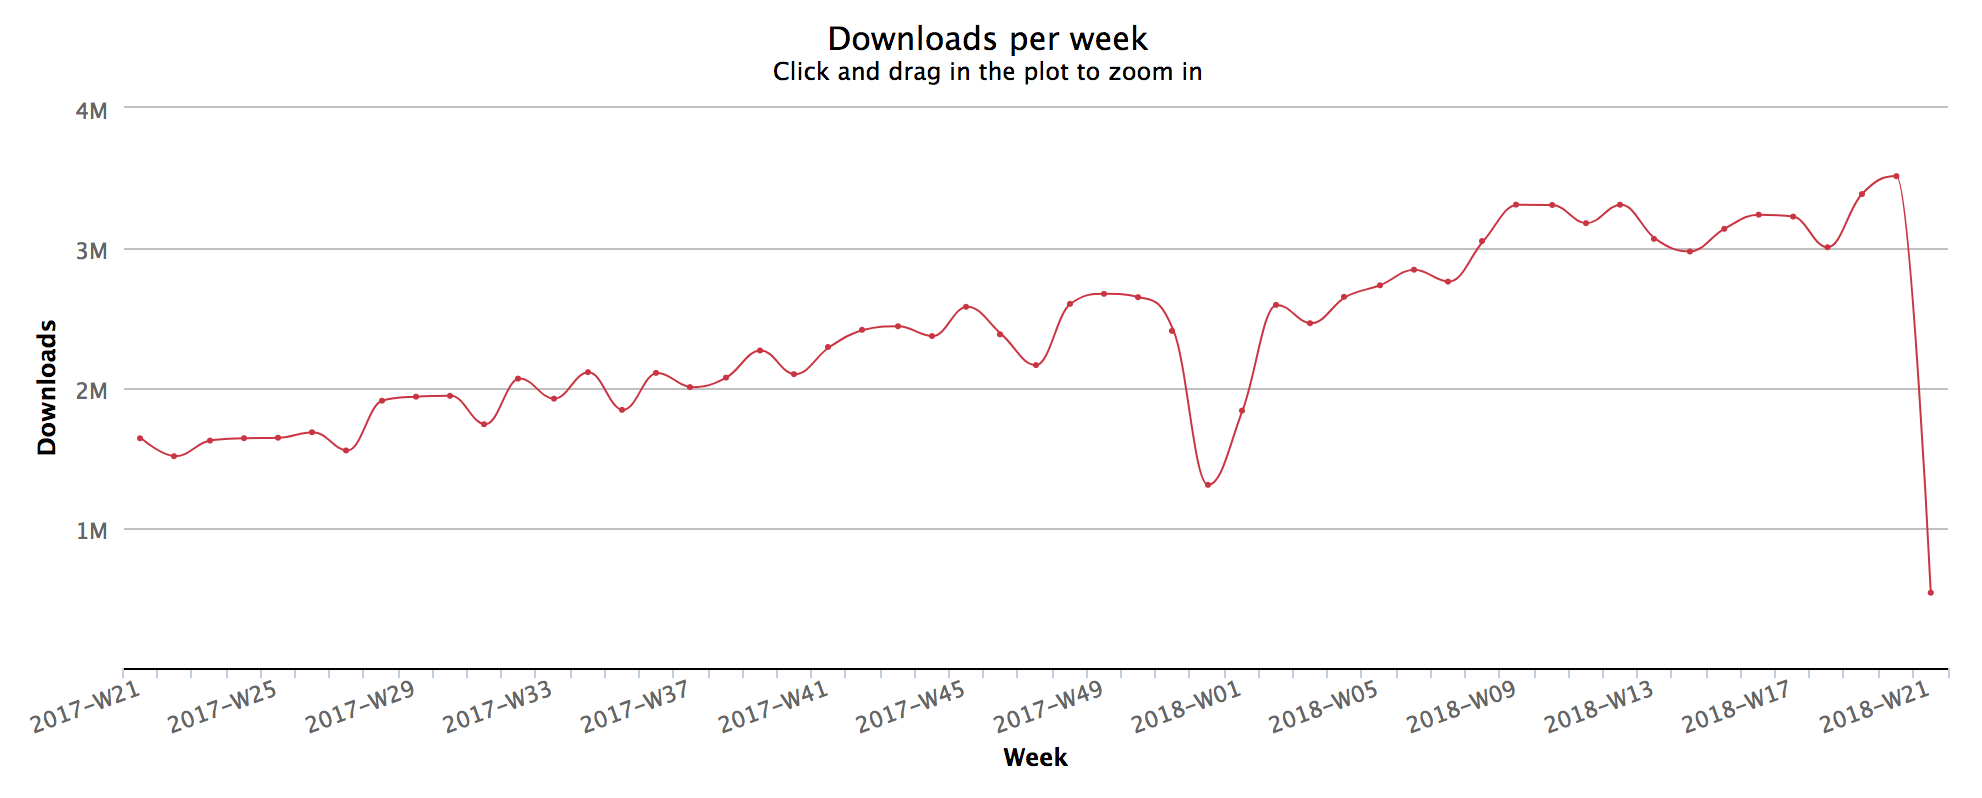
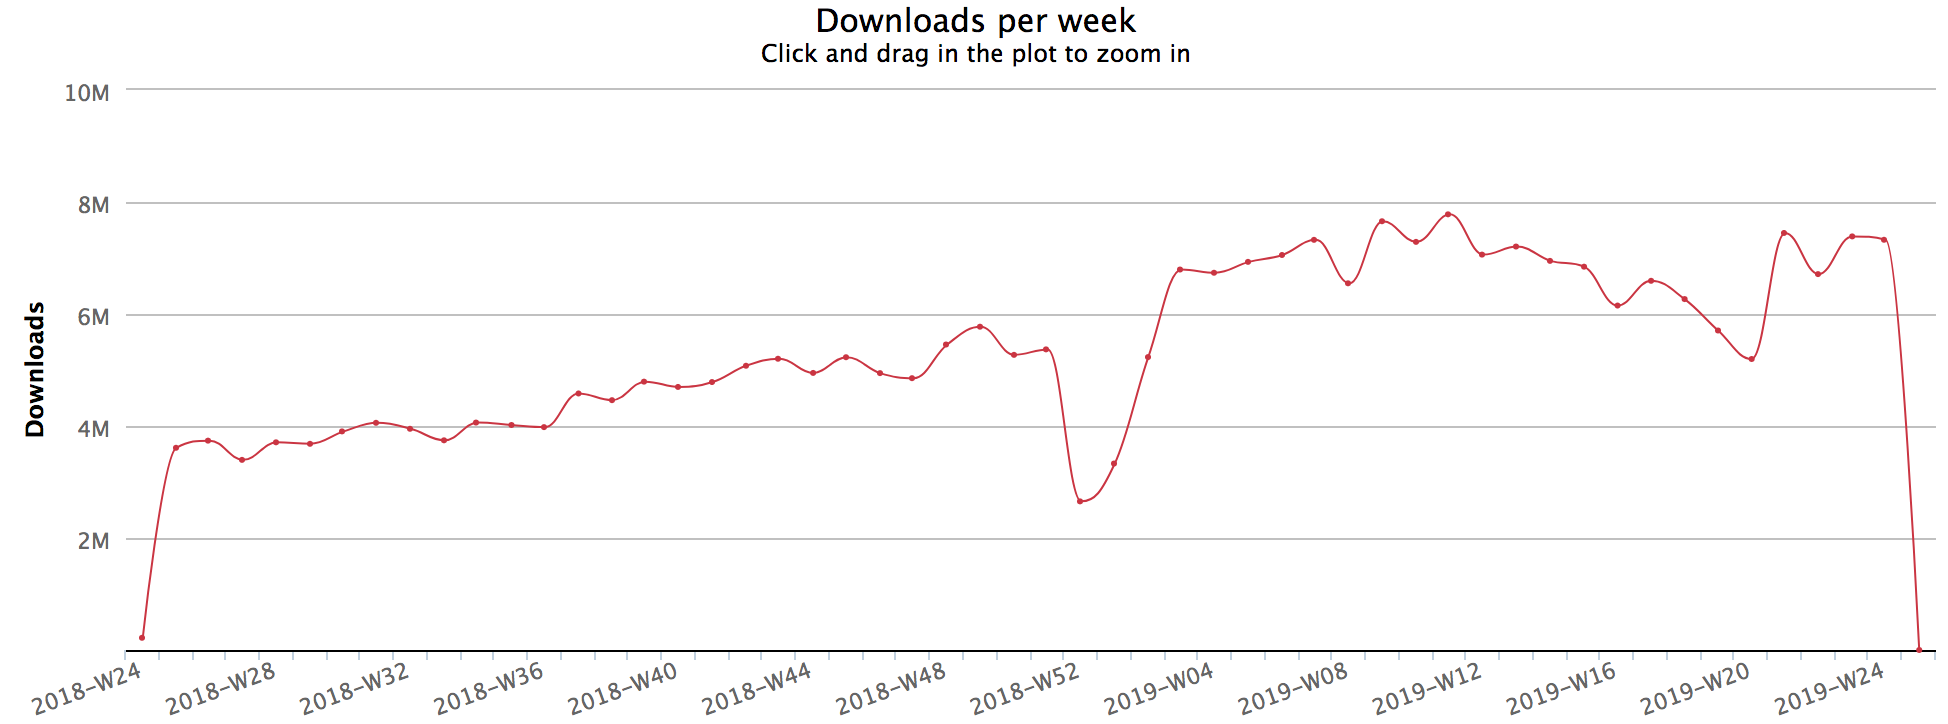
update for rezemp lowdown

diff --git a/presentation/webpack-for-humans.js b/presentation/webpack-for-humans.js
@@ -55,12 +55,12 @@ export default class Presentation extends React.Component {
             {"Hi I'm Doug"}
           </Heading>
           <List>
-            <ListItem>Match Team</ListItem>
-            <ListItem>At Indeed about a year and a half</ListItem>
+            <ListItem>Your Team</ListItem>
+            <ListItem>At Indeed about a two and a half years</ListItem>
             <ListItem>I want you to be successful</ListItem>
           </List>
           <Notes>
-            Hi and thanks to Ricky for inviting me. I have geared this talk to an
+            Hi and thanks to Phil for inviting me. I have geared this talk to an
             audience with pretty minimal knowledge of JavaScript, as I have encountered
             a lot of Java-only developers at Indeed; I apologize if I spend too much
             time explaining things everyone already knows. Also, there are a lot of
@@ -85,7 +85,7 @@ export default class Presentation extends React.Component {
         <Slide>
           <Image src={images.searchResults} width="100%"/>
           <Text size={6} textColor="tertiary" italic>
-            373 projects at Indeed use webpack
+            2158 projects at Indeed use webpack
           </Text>
           <Notes>
             <div><ul>
@@ -98,7 +98,7 @@ export default class Presentation extends React.Component {
         <Slide>
           <Image src={images.downloads} width="100%"/>
           <Text size={6} textColor="tertiary" italic>
-            Webpack was downloaded 3.5 million times last week
+            Webpack was downloaded 7.3 million times last week
           </Text>
           <Notes>
             <div><ul>
@@ -112,7 +112,7 @@ export default class Presentation extends React.Component {
           <Image src={images.butWhy} width="100%"/>
           <Notes>
             <div><ul>
-              <li>Hopefully I have convinced you that this is worth knowig about</li>
+              <li>Hopefully I have convinced you that this is worth knowing about</li>
               <li>Why is webpack so successful?</li>
             </ul></div>
           </Notes>
@@ -150,6 +150,7 @@ export default class Presentation extends React.Component {
         </Slide>
         <Slide>
           <Image src={images.javascript} />
+          <a href="https://www.spacejam.com/archive/spacejam/movie/jam.htm">Space Jam</a>
           <Notes>
             <div>
               And things stayed that way for a long time.  Webmasters used iFrames
@@ -259,7 +260,10 @@ const { myParam } = qa.parse(location.search);
               vary from language to language.  Note in these examples that we can
               switch between TJ's implementation and Sindre's implementation without
               refactoring our code, or we can switch between legacy and Janus styles
-              without a refactor.
+              without a refactor.  JavaScript's love affair for small modules dates
+              back to the days when we copy-pasted from view source (and later from
+              stack overflow) tiny snippets to cobble together to make webpages; 
+              modules formalized this process.
             </Notes>
         </Slide>
         <Slide>
@@ -284,8 +288,8 @@ define(['dep1', 'dep2'], function (dep1, dep2) {
             came back before its dependencies, it was okay.  And the require.js loader
             used the module name and a baseUrl to automatically resolve the dependencies
             for you.  It was magical!  Except you could not use javascript isomorphically,
-            or on the server and in the browser, and you still had the many small files
-            problem.
+            meaning on the server and in the browser, and you still had the many small
+            files problem.
           </Notes>
         </Slide>
         <Slide transition={["zoom"]} bgColor="primary">
@@ -403,6 +407,8 @@ module.exports = {
             Each one adds some functionality, and some plugins expect other plugins to run
             before them, like style-loader expectes css-loader to run first.  It turns out
             that under the cover, Webpack is just a plugin system, like babel and eslint.
+
+            We can see this in an example (styles)
           </Notes>
         </Slide>
         <Slide>
@@ -431,6 +437,8 @@ module.exports = {
             url to something new every time we redeploy the app.  If the static is the same, it computes
             the same hash; if not, the odds of a hash collision are like sand on the beach or stars in the
             sky.
+
+            We can see this in an example (cache-busting)
           </Notes>
         </Slide>
         <Slide>
@@ -471,6 +479,8 @@ module.exports = {
 
             Similarly, you can split out code that is used on more than one page
             into a commons chunk, so that it is not refetched for every page.
+
+            We can see this in an example (vendor-chunk)
           </Notes>
         </Slide>
         <Slide>
@@ -504,6 +514,8 @@ module.exports = {
             are not limited to only injecting process.env.NODE_ENV (which is a node.js
             convention adopted by many js libraries); you can inject any variable
             you want available at build time.
+
+            We can see this in an example (environment)
           </Notes>
         </Slide>
         <Slide>
@@ -534,6 +546,8 @@ module.exports = {
             portion of users, and only then fetch the code, obviating the need for that
             code for most users.  It uses dynamic requires, and does not require any
             extra configuration.
+
+            We can see this in an example (code-split)
           </Notes>
         </Slide>
         <Slide>
@@ -557,12 +571,17 @@ module.exports = {
             careful with.  When you do a dynamic require, webpack loads all of the
             code that you could possibly require and includes it in the bundle, so
             be careful to limit them to as few things as possible.
+
+            We can see this in an example (dynamic-require)
           </Notes>
         </Slide>
         <Slide>
           <Heading size={3} textColor="tertiary">
             frontend-build
           </Heading>
+          <Notes>
+            We can see how frontend-build works in an example (dynamic-require)
+          </Notes>
         </Slide>
         <Slide>
           <Heading size={3} textColor="tertiary">

diff --git a/index.js b/index.js
@@ -4,7 +4,7 @@ import ReactDOM from "react-dom";
 import { AppContainer } from "react-hot-loader";
 import Redbox from "redbox-react";
 
-import Presentation from "./presentation/javascript-the-future-parts";
+import Presentation from "./presentation/webpack-for-humans";
 
 const CustomErrorReporter = ({ error }) => <Redbox error={ error } />;
 
